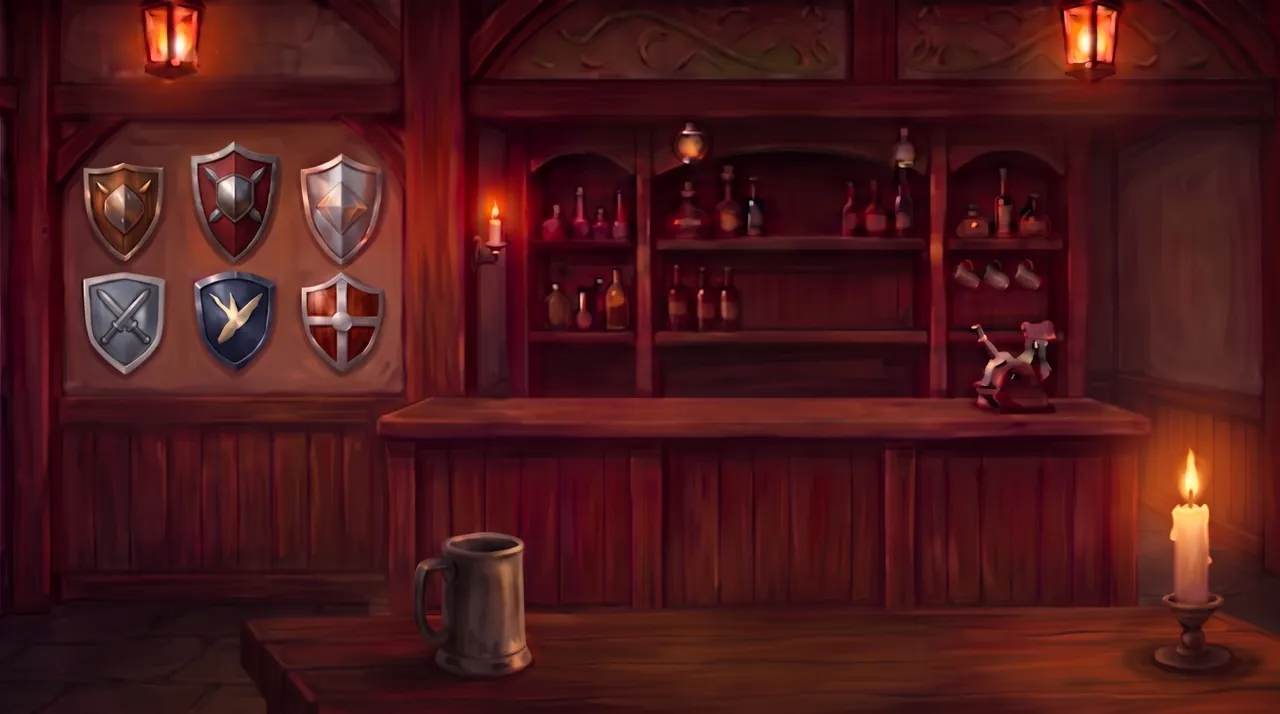
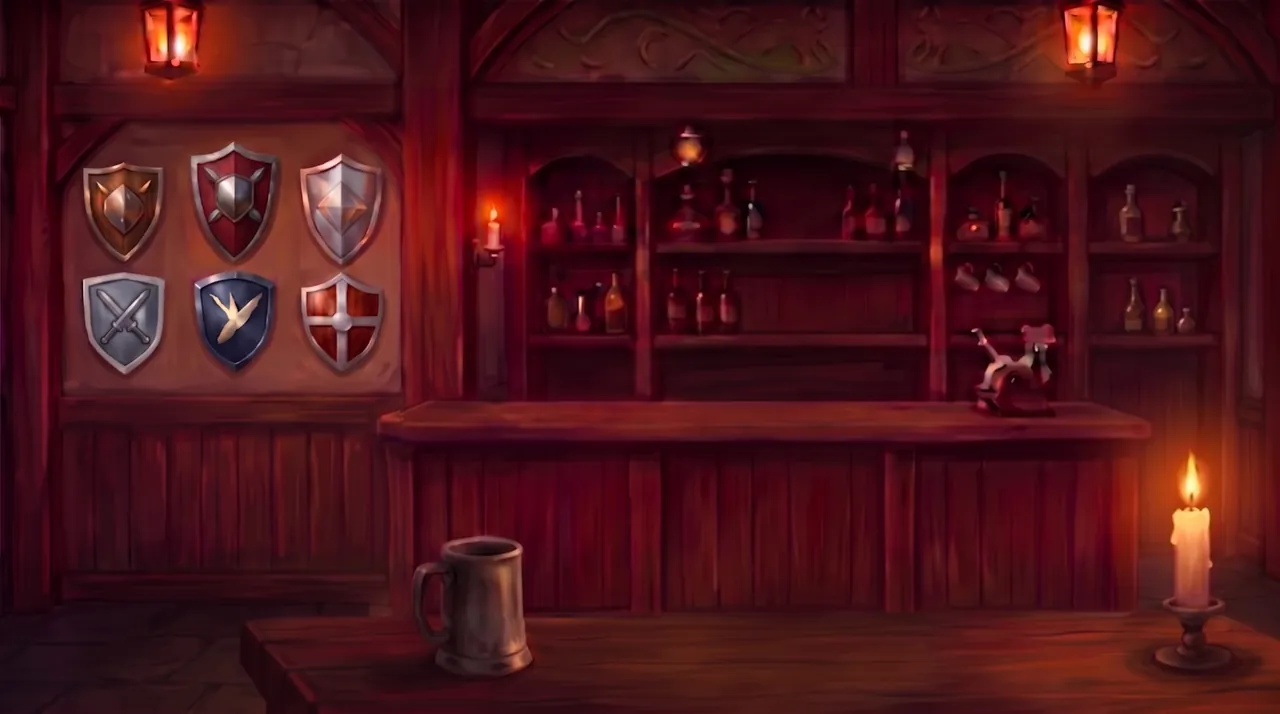
feat: add npc-table art assets, include project documentation, and ignore stackdump files

diff --git a/art/README.md b/art/README.md
@@ -57,8 +57,8 @@ Rows are in byte-order by filename so this table can be diffed directly against 
 | innkeeper-presenting-device-519.webp | 519×1365 | 46,056 B | sprite |
 | messengers-corner-1280.webp | 1280×714 | 33,810 B | background |
 | messengers-corner-2560.webp | 2560×1429 | 88,452 B | background |
-| npc-table-1280.webp | 1280×714 | 41,634 B | background |
-| npc-table-2560.webp | 2560×1429 | 93,946 B | background |
+| npc-table-1280.webp | 1280×714 | 35,504 B | background |
+| npc-table-2560.webp | 2560×1429 | 81,964 B | background |
 | npc-table-front-1280.webp | 1280×714 | 13,488 B | foreground plate, alpha |
 | npc-table-front-2560.webp | 2560×1429 | 31,684 B | foreground plate, alpha |
 | quest-board-1192.webp | 1192×662 | 36,972 B | sprite |
@@ -114,7 +114,7 @@ from its own image; do not assume one ratio across routes.
 
 Produced by:
 
-    npm run art art/source/tavern-npc-table-v2.jpg npc-table
-    (Source is now tavern-npc-table-v2.jpg, regenerated 2026-09-01 with corrected shield artwork.)
+    npm run art art/source/tavern-npc-table-v5-2752.png npc-table
+    (Source is tavern-npc-table-v5-2752.png, cropped 2026-09-02 from tavern-npc-table-v5.jpg which was delivered at 2754x1536; one pixel was removed from each side to reach the house 2752x1536. v5 repairs the shelf gap present in v3.)
     npm run art art/cutout/npc-table-front.png npc-table-front 2560,1280
     npm run art art/cutout/tavern-regular-bust.png tavern-regular-bust 1024,512
